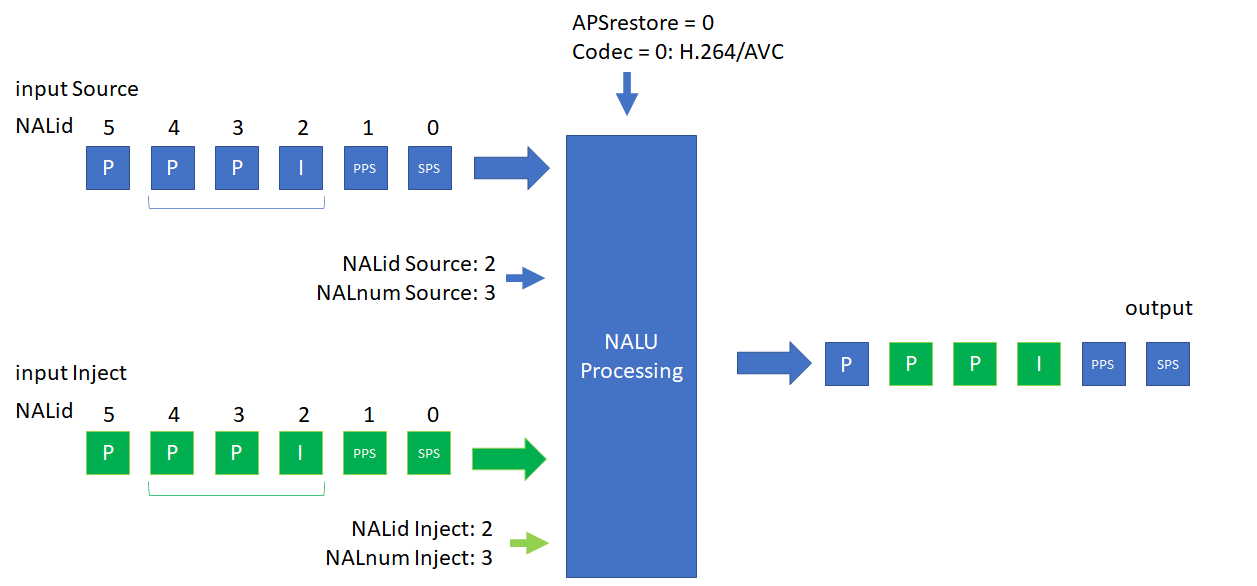
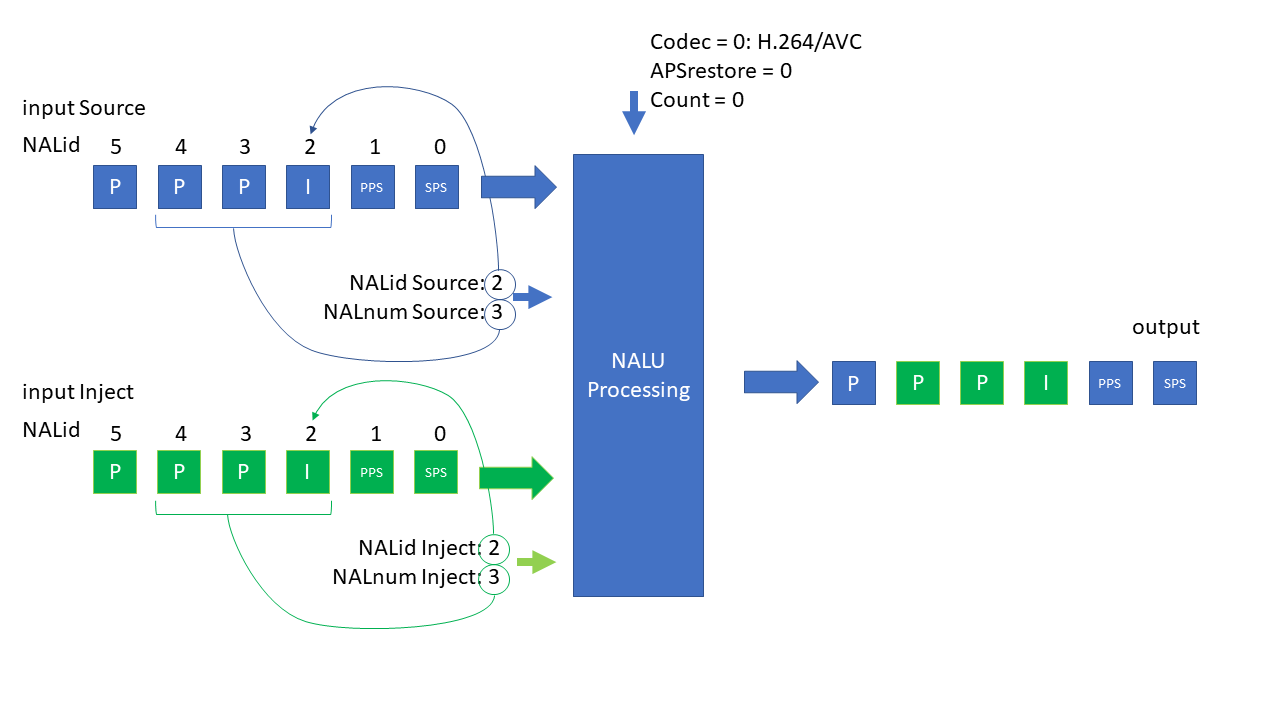
command line parameter change: Count, APSrestore

diff --git a/src/main.cpp b/src/main.cpp
@@ -16,8 +16,9 @@ void print_help() {
 	<< "    <NALid Inject = NALid Source>  NAL start pos to exchange, start count at 0" << std::endl
 	<< "    <NALnum Source = 1>            number of NAL to exchange" << std::endl
 	<< "    <NALnum Inject = 1>            number of NAL to exchange" << std::endl
-	<< "    <APSrestore = 0>               0:  disable 1: restore lost APS after NAL insert (only H.266); 2: NALid only counts video slices + resore APS; 3: NALid only counts video slices ; 4: NALid counts video slices (Source) and NALid (Inject) " << std::endl
 	<< "    <Codec = 0>                    0: H.264/AVC; 1: H.265/HEVC; 2:H.266/VVC" << std::endl
+	<< "    <APSrestore = 0>               0: disable; 1: restore lost APS from Source after NAL insert (only H.266); 2: restore APS from Inject; 3: restore APS from both " << std::endl
+	<< "    <Count = 0>                    0: Count NAL id; 1: Count video slices (Source) and NALid (Inject); 2: Count NALid (Source) and video slices (Inject); 3: Count both video slices" << std::endl
 	<< std::endl;
   // clang-format on
 }
@@ -84,10 +85,11 @@ int main(int argc, char *argv[]) {
   int nalnum1 = 0;
   int nalnum2 = 0;
   int apsrestore = 0;
+  int countnal = 0;
   int codec = CODEC_AVC;
   // Check command line arguments
   int returnval = 0;
-  if (argc != 5 && argc != 8 && argc != 9 && argc != 10) {
+  if (argc != 5 && argc != 8 && argc != 9 && argc != 10 && argc != 11) {
     std::cout << "Incorrect number of arguments!" << std::endl;
     returnval = -1;
   } else if (argc > 4 && !isdigit(argv[4][0])) {
@@ -131,17 +133,25 @@ int main(int argc, char *argv[]) {
     }
     if (argc >= 9) {
       if (isdigit(argv[8][0])) {
-        apsrestore = atoi(argv[8]);
+        codec = atoi(argv[8]);
       } else {
-        std::cout << "Argument APSrestore is not integer!" << std::endl;
+        std::cout << "Argument Codec is not integer!" << std::endl;
         returnval = -1;
       }
     }
     if (argc >= 10) {
       if (isdigit(argv[9][0])) {
-        codec = atoi(argv[9]);
+        apsrestore = atoi(argv[9]);
       } else {
-        std::cout << "Argument Codec is not integer!" << std::endl;
+        std::cout << "Argument APSrestore is not integer!" << std::endl;
+        returnval = -1;
+      }
+    }
+    if (argc >= 11) {
+      if (isdigit(argv[10][0])) {
+        countnal = atoi(argv[10]);
+      } else {
+        std::cout << "Argument Count NAL is not integer!" << std::endl;
         returnval = -1;
       }
     }
@@ -153,7 +163,8 @@ int main(int argc, char *argv[]) {
   }
 
   // bufferAPS contains APSs with their type and id as int identifier
-  std::map<int, std::vector<uint8_t>> bufferaps;
+  std::map<int, std::vector<uint8_t>> bufferapssource;
+  std::map<int, std::vector<uint8_t>> bufferapsinject;
 
   // Store input in vectors for easy processing
   std::vector<uint8_t> bufferinputfile1(
@@ -188,9 +199,9 @@ int main(int argc, char *argv[]) {
     if (nalendinput1 + 1 > bufferinputfile1.end()) break;
     ++nalendinput1;
     find_nal_unit(nalendinput1, bufferinputfile1);
-    if (apsrestore == 1 || apsrestore == 2)
-      check_and_save_aps(NALstartinputtmp, nalendinput1, bufferaps, codec);
-    if ((apsrestore != 2 && apsrestore != 3 && apsrestore != 4) ||
+    if (apsrestore == 1 || apsrestore == 3)
+      check_and_save_aps(NALstartinputtmp, nalendinput1, bufferapssource, codec);
+    if ((countnal == 0 || countnal == 2) ||
         is_vlc(NALstartinputtmp, codec))
       ++i;
     NALstartinputtmp = nalendinput1;
@@ -208,7 +219,9 @@ int main(int argc, char *argv[]) {
     if (nalendinput2 + 1 >= bufferinputfile2.end()) break;
     ++nalendinput2;
     find_nal_unit(nalendinput2, bufferinputfile2);
-    if ((apsrestore != 2 && apsrestore != 3) || is_vlc(NALstartinputtmp, codec))
+    if (apsrestore == 2 || apsrestore == 3)
+      check_and_save_aps(NALstartinputtmp, nalendinput2, bufferapsinject, codec);
+    if ((countnal == 0 || countnal == 1) || is_vlc(NALstartinputtmp, codec))
       ++i;
     NALstartinputtmp = nalendinput2;
   }
@@ -222,12 +235,32 @@ int main(int argc, char *argv[]) {
     if (nalendinput1 + 1 >= bufferinputfile1.end()) break;
     ++nalendinput1;
     find_nal_unit(nalendinput1, bufferinputfile1);
-    if (apsrestore == 1 || apsrestore == 2)
-      check_and_save_aps(NALstartinputtmp, nalendinput1, bufferaps, codec);
-    if ((apsrestore != 2 && apsrestore != 3 && apsrestore != 4) ||
+    if (apsrestore == 1 || apsrestore == 3)
+      check_and_save_aps(NALstartinputtmp, nalendinput1, bufferapssource, codec);
+    if ((countnal == 0 || countnal == 2) ||
         is_vlc(NALstartinputtmp, codec))
       ++i;
     NALstartinputtmp = nalendinput1;
+  }
+
+  // write encountered APS packets from inject
+  nalstartinput2 = nalendinput2;
+  if (apsrestore == 2 || apsrestore == 3) {
+    // first check if there is an additional APS in the inject stream
+    ++nalendinput2;
+    find_nal_unit(nalendinput2, bufferinputfile2);
+    // if so, save it in the buffer aps
+    check_and_save_aps(nalstartinput2, nalendinput2, bufferapsinject, codec);
+    //if it was an APS, skip over it during the next process, otherwise rewind and consider the NAL
+    if (is_aps(nalstartinput2, codec))
+      nalstartinput2 = nalendinput2;
+    else
+      nalendinput2 = nalstartinput2;
+
+    for (auto const &x : bufferapsinject) {
+      outputfile.write(reinterpret_cast<const char *>(&x.second[0]),
+                       x.second.size() * sizeof(uint8_t));
+    }
   }
 
   // Continue with writing from Inject/input2
@@ -238,7 +271,7 @@ int main(int argc, char *argv[]) {
     if (nalendinput2 + 1 >= bufferinputfile2.end()) break;
     ++nalendinput2;
     find_nal_unit(nalendinput2, bufferinputfile2);
-    if ((apsrestore != 2 && apsrestore != 3) || is_vlc(NALstartinputtmp, codec))
+    if ((countnal == 0 || countnal == 1) || is_vlc(NALstartinputtmp, codec))
       ++i;
     NALstartinputtmp = nalendinput2;
   }
@@ -248,13 +281,15 @@ int main(int argc, char *argv[]) {
 
   // write encountered APS packets back in
   nalstartinput1 = nalendinput1;
-  if (apsrestore == 1 || apsrestore == 2) {
+  if (apsrestore == 1 || apsrestore == 3) {
+    // check if the first NAL in source is not an APS, because then there could be duplicate APS with the same index
     ++nalendinput1;
     find_nal_unit(nalendinput1, bufferinputfile1);
-    check_and_save_aps(nalstartinput1, nalendinput1, bufferaps, codec);
+    check_and_save_aps(nalstartinput1, nalendinput1, bufferapssource, codec);
+    // if the first NAL in source was an APS, write it from the APS buffer, and skip it in the next write procedure.
     if (is_aps(nalstartinput1, codec)) nalstartinput1 = nalendinput1;
 
-    for (auto const &x : bufferaps) {
+    for (auto const &x : bufferapssource) {
       outputfile.write(reinterpret_cast<const char *>(&x.second[0]),
                        x.second.size() * sizeof(uint8_t));
     }

diff --git a/README.md b/README.md
@@ -43,14 +43,17 @@ Usage:
     <NALid Inject = NALid Source>  NAL start pos to exchange, start count at 0
     <NALnum Source = 1>            number of NAL to exchange
     <NALnum Inject = 1>            number of NAL to exchange
-    <APSrestore = 0>               0: disable
-                                   1: restore lost APS after NAL insert (only H.266); 
-                                   2: option 1 + NALid only counts video slices
-								   3: NALid only counts video slices ; 
-								   4: NALid counts video slices (Source) and NALid (Inject)
-    <Codec = 0>                    0: H.264/AVC 
-                                   1: H.265/HEVC 
-                                   2: H.266/VVC 
+    <Codec = 0>						0: H.264/AVC 
+									1: H.265/HEVC 
+									2: H.266/VVC 
+	<APSrestore = 0>				0: disable; 
+									1: restore lost APS from Source after NAL insert (only H.266); 
+									2: restore APS from Inject; 
+									3: restore APS from both
+	<Count = 0>						0: Count NAL id; 
+									1: Count video slices (Source) and NALid (Inject); 
+									2: Count NALid (Source) and video slices (Inject); 
+									3: Count both video slices
 ```
 
 ## Usage example H.264/AVC
